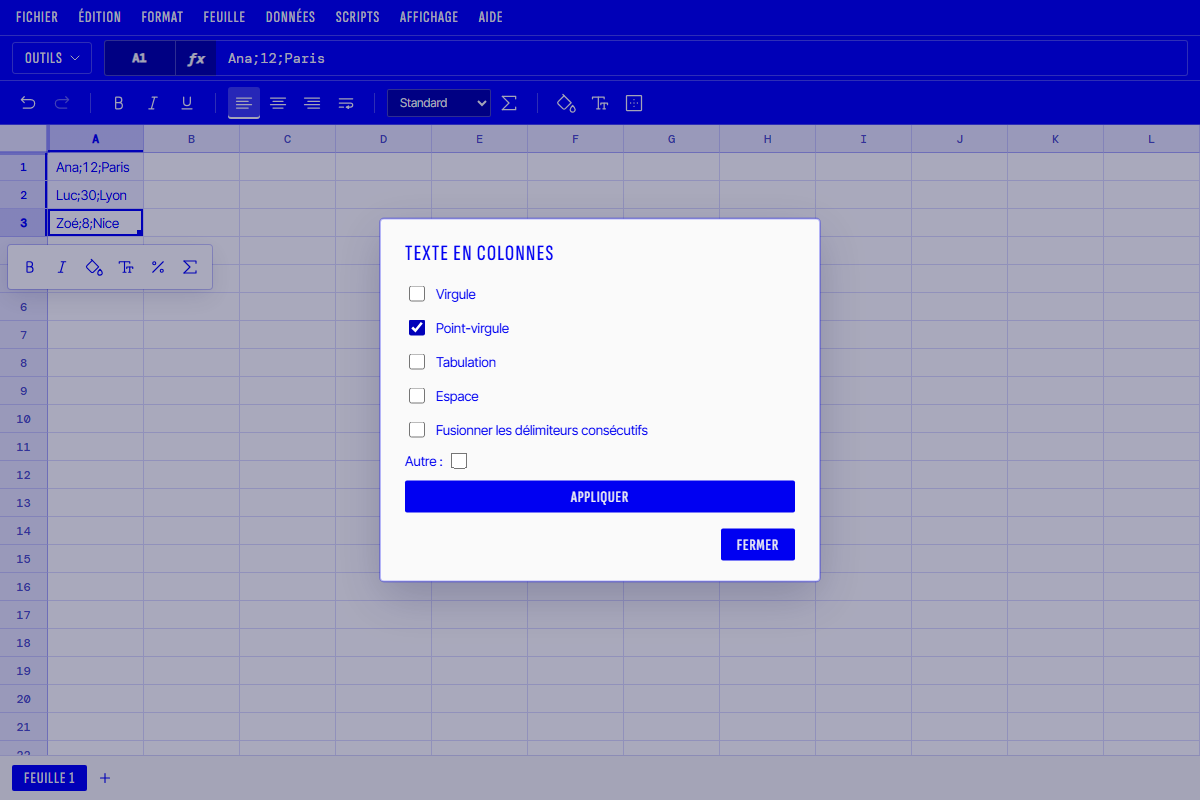
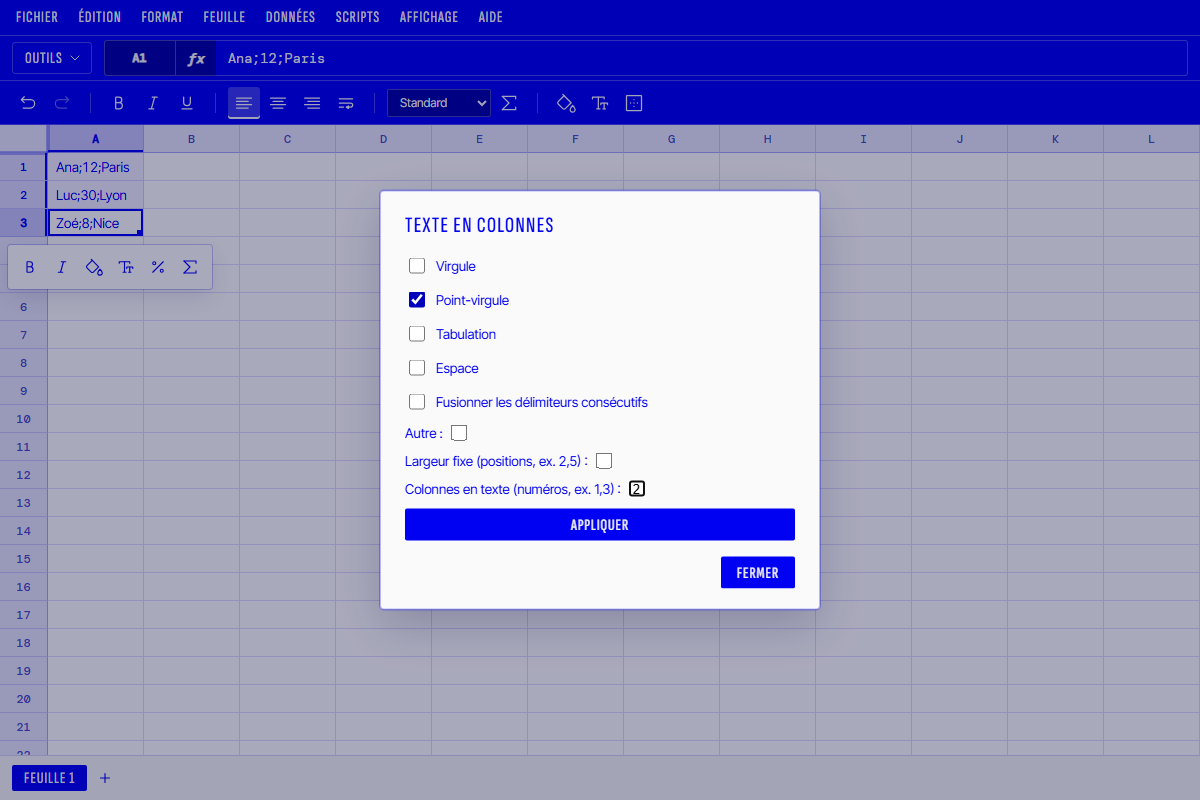
Boucle: implementation

Changed region(s): [[0.3083, 0.2188, 0.7092, 0.7812]]

diff --git a/src/ui/dialogs/textToCols.ts b/src/ui/dialogs/textToCols.ts
@@ -33,12 +33,20 @@ export function openTextToColumns(app: App): void {
   body.innerHTML = CHOICES.map(([n, l]) => `<label class="dk-dialog__check"><input type="checkbox" name="${n}"${n === "comma" ? " checked" : ""}> ${l}</label>`).join("") +
     '<label class="dk-dialog__check"><input type="checkbox" name="merge"> Fusionner les délimiteurs consécutifs</label>' +
     '<label class="dk-dialog__check">Autre : <input type="text" name="other" size="4" maxlength="8"></label>' +
+    '<label class="dk-dialog__check">Largeur fixe (positions, ex. 2,5) : <input type="text" name="widths" size="8"></label>' +
+    '<label class="dk-dialog__check">Colonnes en texte (numéros, ex. 1,3) : <input type="text" name="texts" size="8"></label>' +
     '<button type="button" class="dk-dialog__btn" data-action="apply">Appliquer</button>';
   const box = openDialog("text-to-columns", "Texte en colonnes", body);
   const on = (n: string): boolean => body.querySelector<HTMLInputElement>(`input[name="${n}"]`)!.checked;
   body.querySelector('[data-action="apply"]')!.addEventListener("click", () => {
     const other = body.querySelector<HTMLInputElement>('input[name="other"]')!.value;
-    applyTextToColumns(app, { delims: CHOICES.filter(([n]) => on(n)).map(([, , c]) => c), other, merge: on("merge") });
+    const nums = (n: string): number[] => (body.querySelector<HTMLInputElement>(`input[name="${n}"]`)!.value.match(/\d+/g) ?? []).map(Number);
+    const formats = [] as ("general" | "text")[];
+    for (const c of nums("texts")) formats[c - 1] = "text";
+    applyTextToColumns(app, {
+      delims: CHOICES.filter(([n]) => on(n)).map(([, , c]) => c), other, merge: on("merge"),
+      widths: nums("widths"), formats: Array.from(formats, (f) => f ?? "general"),
+    });
     box.querySelector<HTMLElement>('[data-action="close"]')!.click();
   });
 }

diff --git a/src/ui/statusbar/stats.ts b/src/ui/statusbar/stats.ts
@@ -1,0 +1,28 @@
+/** Pure selection statistics for the status bar (no DOM). */
+import type { Value } from "../../engine/types";
+
+/** Figures of a selection; numeric ones are absent when it holds no number. */
+export interface SelStats { count: number; numCount: number; sum?: number; avg?: number; min?: number; max?: number }
+
+/** Compute stats over cell values: non-empty cells are counted, only real numbers feed sum/avg/min/max. */
+export function selectionStats(values: Value[]): SelStats {
+  const nums = values.filter((v): v is number => typeof v === "number");
+  const count = values.filter((v) => v !== "").length;
+  if (!nums.length) return { count, numCount: 0 };
+  const sum = nums.reduce((a, b) => a + b, 0);
+  return { count, numCount: nums.length, sum, avg: sum / nums.length, min: Math.min(...nums), max: Math.max(...nums) };
+}
+
+const fmt = (n: number) => n.toLocaleString("fr-FR", { maximumFractionDigits: 10 });
+
+/** Labelled figures to display, in order; empty unless at least 2 cells are selected. */
+export function statItems(cells: number, values: Value[]): { label: string; value: string }[] {
+  if (cells < 2) return [];
+  const s = selectionStats(values);
+  const out: { label: string; value: string }[] = [];
+  if (s.numCount) out.push({ label: "Moyenne", value: fmt(s.avg!) });
+  out.push({ label: "Nb", value: fmt(s.count) });
+  if (s.numCount) out.push({ label: "Nb numérique", value: fmt(s.numCount) }, { label: "Min", value: fmt(s.min!) },
+    { label: "Max", value: fmt(s.max!) }, { label: "Somme", value: fmt(s.sum!) });
+  return out;
+}

diff --git a/src/ui/appGrid.ts b/src/ui/appGrid.ts
@@ -1,5 +1,5 @@
 /** Grid lifecycle of the app: (re)build, info sync, redraw after edits, tabs refresh. */
-import { getDisplay, getRaw, setCell } from "../engine/sheet";
+import { getDisplay, getRaw, getValue, setCell } from "../engine/sheet";
 import { createGrid } from "./grid/grid";
 import type { GridView } from "./grid/types";
 import { MAX_ROWS } from "./grid/virtual";
@@ -11,7 +11,7 @@ import { sheetEnv } from "../engine/cf/env";
 import { formatValue } from "./numfmt";
 import { fitColumns } from "./appFit";
 import { colsOfSelection } from "./grid/fit";
-import { firstKey, setTitle, type Ctx } from "./appState";
+import { firstKey, keysOf, setTitle, type Ctx } from "./appState";
 
 /** Per-sheet grid view state (column widths, filters): survives rebuilds, widths and freeze come from the entry (saved in files), filters are not saved; `viewOf(entry)` gets/creates it. */
 const views = new WeakMap<object, GridView>();
@@ -32,6 +32,8 @@ export function syncInfo(c: Ctx): void {
   const raw = getRaw(c.cur.sheet, key);
   c.fbar.setCell(key, raw);
   c.sidebar.setCellInfo({ ref: key, raw, display: getDisplay(c.cur.sheet, key), format: "Standard" });
+  const keys = keysOf(c.grid.getSelection());
+  c.status.update(keys.length, keys.length > 1 ? keys.map((k) => getValue(c.cur.sheet, k)) : []);
   const st = c.cur.styles[key] ?? {};
   c.toolbar.setState({ bold: !!st.bold, italic: !!st.italic, underline: !!st.underline, wrap: !!st.wrap, align: st.align ?? "left",
     format: st.format ?? "general", canUndo: c.cur.undo.length > 0, canRedo: c.cur.redo.length > 0 });

diff --git a/src/ui/statusbar/stats.test.ts b/src/ui/statusbar/stats.test.ts
@@ -1,0 +1,40 @@
+// @vitest-environment jsdom
+import { describe, it, expect } from "vitest";
+import { selectionStats, statItems } from "./stats";
+import { createStatusBar } from "./statusbar";
+
+describe("selectionStats", () => {
+  it("computes sum, avg, min, max, counts", () => {
+    const s = selectionStats([1, 2, "a", "", 6, true]);
+    expect(s).toEqual({ count: 5, numCount: 3, sum: 9, avg: 3, min: 1, max: 6 });
+  });
+  it("has no numeric stats without numbers", () => {
+    expect(selectionStats(["a", ""])).toEqual({ count: 1, numCount: 0 });
+  });
+});
+
+describe("statItems", () => {
+  it("is empty for fewer than 2 cells", () => {
+    expect(statItems(1, [5])).toEqual([]);
+  });
+  it("lists the six figures in order (fr-FR)", () => {
+    const l = statItems(3, [1, 2, 3.5]).map((i) => i.label);
+    expect(l).toEqual(["Moyenne", "Nb", "Nb numérique", "Min", "Max", "Somme"]);
+    expect(statItems(3, [1, 2, 3.5]).find((i) => i.label === "Somme")!.value).toBe("6,5");
+  });
+  it("only shows Nb when no number", () => {
+    expect(statItems(2, ["a", "b"]).map((i) => i.label)).toEqual(["Nb"]);
+  });
+});
+
+describe("createStatusBar", () => {
+  it("renders items and hides when empty", () => {
+    const sb = createStatusBar();
+    sb.update(2, [4, 6]);
+    expect(sb.el.hidden).toBe(false);
+    expect(sb.el.textContent).toContain("Somme");
+    expect(sb.el.querySelector('[data-stat="Somme"]')!.textContent).toContain("10");
+    sb.update(1, [4]);
+    expect(sb.el.hidden).toBe(true);
+  });
+});

diff --git a/src/ui/app.ts b/src/ui/app.ts
@@ -21,6 +21,8 @@ import { installMacros } from "./macros/wire";
 import { watchMacros } from "./appMacros";
 import { relink, type Ctx } from "./appState";
 import { createDocStore } from "../doc/store";
+import "./statusbar/statusbar.css";
+import { createStatusBar } from "./statusbar/statusbar";
 import "../doc/doc.css";
 import "../doc/blocks.css";
 import type { App } from "./appTypes";
@@ -30,7 +32,7 @@ export type { App, Hooks } from "./appTypes";
 const LAYOUT =
   '<div class="dk-app dk-app--minimal"><div class="dk-app__top"><div class="dk-app__menubar"></div><div class="dk-app__bar"></div><div class="dk-app__tools"></div></div>' +
   '<div class="dk-app__main"><div class="dk-app__grid"></div><div class="dk-app__doc" hidden></div><div class="dk-app__macro" hidden></div></div>' +
-  '<div class="dk-app__tabs"></div></div>';
+  '<div class="dk-app__status-slot"></div><div class="dk-app__tabs"></div></div>';
 
 /** Disposer of the previous mount (palette hotkey, menus click listener), run before a remount. */
 let disposePrev: (() => void) | undefined;
@@ -51,6 +53,8 @@ export function mount(root: HTMLElement): App {
     entries: [first], cur: first, recents: [], coalescing: false,
   } as unknown as Ctx;
   relink(c);
+  c.status = createStatusBar();
+  root.querySelector(".dk-app__status-slot")!.replaceWith(c.status.el);
   c.app = createApi(c);
   createWidgets(c, root);
   watchMacros(c);

diff --git a/e2e/feat-selstats.spec.ts b/e2e/feat-selstats.spec.ts
@@ -1,0 +1,26 @@
+/** E2E: status bar shows selection statistics for 2+ cells; screenshots light + dark. */
+import { test, expect } from "@playwright/test";
+import { openApp, selectCell } from "./helpers";
+import { fillColumn } from "./helpers-new";
+
+const DIR = "docs/screenshots/statistiques-de-selection-dans-la-barre-d-etat";
+
+for (const [theme, label] of [["light", "clair"], ["dark", "sombre"]] as const) {
+  test(`selection statistics (${label})`, async ({ page }) => {
+    await page.setViewportSize({ width: 1200, height: 800 });
+    await openApp(page);
+    await page.evaluate((t) => { document.documentElement.dataset.theme = t; }, theme);
+    await fillColumn(page, "A", ["10", "20", "x", "30"]);
+    await selectCell(page, "A1");
+    await expect(page.locator(".dk-status")).toBeHidden();
+    await page.locator('.dkg-cell[data-key="A1"]').hover();
+    await page.mouse.down();
+    await page.locator('.dkg-cell[data-key="A4"]').hover();
+    await page.mouse.up();
+    const bar = page.locator(".dk-status");
+    await expect(bar.locator('[data-stat="Somme"]')).toContainText("60");
+    await expect(bar.locator('[data-stat="Moyenne"]')).toContainText("20");
+    await expect(bar.locator('[data-stat="Nb"]')).toContainText("4");
+    await page.screenshot({ path: `${DIR}/statistiques-${label}.png` });
+  });
+}

diff --git a/src/engine/textsplit.ts b/src/engine/textsplit.ts
@@ -13,10 +13,18 @@ export interface SplitOpts {
   other?: string;
   /** Traite les délimiteurs consécutifs comme un seul. */
   merge?: boolean;
+  /** Largeur fixe : positions de coupe croissantes (ex. [2, 4]); remplace les délimiteurs si non vide. */
+  widths?: number[];
+  /** Format par colonne produite (absent = général); "text" force le texte (préfixe `'`). */
+  formats?: ("general" | "text")[];
 }
 
 /** Découpe une ligne en parties (au moins une). */
 export function splitLine(text: string, o: SplitOpts): string[] {
+  if (o.widths?.length) {
+    const cuts = [0, ...o.widths, text.length];
+    return cuts.slice(0, -1).map((c, i) => text.slice(c, cuts[i + 1]));
+  }
   const seps = [...o.delims, ...(o.other ? [o.other] : [])].filter((s) => s !== "");
   if (!seps.length) return [text];
   const out: string[] = [];
@@ -46,7 +54,7 @@ export function splitColumn(src: Record<string, string>, o: SplitOpts): { cells:
     if (!p || raw === "") continue;
     const parts = splitLine(raw, o);
     cols = Math.max(cols, parts.length);
-    parts.forEach((v, i) => { cells[colToLetters(p.col + i) + p.row] = v; });
+    parts.forEach((v, i) => { cells[colToLetters(p.col + i) + p.row] = o.formats?.[i] === "text" && v !== "" ? "'" + v : v; });
   }
   return { cells, cols };
 }

diff --git a/src/ui/statusbar/statusbar.ts b/src/ui/statusbar/statusbar.ts
@@ -1,0 +1,26 @@
+/** Status bar: shows Moyenne / Nb / Nb numérique / Min / Max / Somme of a multi-cell selection. */
+import type { Value } from "../../engine/types";
+import { statItems } from "./stats";
+
+export interface StatusBar { el: HTMLElement; update(cells: number, values: Value[]): void }
+
+/** Create the bar (hidden until `update` gets a selection of 2+ cells). */
+export function createStatusBar(): StatusBar {
+  const el = document.createElement("div");
+  el.className = "dk-status";
+  el.setAttribute("role", "status");
+  el.hidden = true;
+  return {
+    el,
+    update(cells, values) {
+      const items = statItems(cells, values);
+      el.hidden = !items.length;
+      el.replaceChildren(...items.map((i) => {
+        const s = document.createElement("span");
+        s.dataset.stat = i.label;
+        s.textContent = `${i.label} : ${i.value}`;
+        return s;
+      }));
+    },
+  };
+}

diff --git a/src/ui/appState.ts b/src/ui/appState.ts
@@ -3,6 +3,7 @@ import { parseKey, rangeKeys } from "./grid/keys";
 import type { Grid } from "./grid/grid";
 import type { Toolbar, FormulaBar } from "./toolbar";
 import type { SheetTabs } from "./tabs/tabs";
+import type { StatusBar } from "./statusbar/statusbar";
 import type { Sidebar, RecentFile } from "./sidebar/sidebar";
 import { linkBook, type Entry } from "./model";
 import type { App } from "./appTypes";
@@ -50,6 +51,8 @@ export interface Ctx {
   grid: Grid;
   toolbar: Toolbar;
   fbar: FormulaBar;
+  /** Selection statistics bar. */
+  status: StatusBar;
   sidebar: Sidebar;
   tabs: SheetTabs;
   app: App;

diff --git a/src/engine/textsplit.test.ts b/src/engine/textsplit.test.ts
@@ -29,3 +29,13 @@ describe("splitColumn", () => {
     expect(splitColumn({ Z1: "a,b" }, { delims: [","] }).cells).toEqual({ Z1: "a", AA1: "b" });
   });
 });
+
+describe("largeur fixe et format par colonne", () => {
+  it("largeur fixe : positions de coupe", () => {
+    expect(splitLine("abcdef", { delims: [], widths: [2, 4] })).toEqual(["ab", "cd", "ef"]);
+  });
+  it("format texte : apostrophe en préfixe (force le texte)", () => {
+    const r = splitColumn({ A1: "007,5" }, { delims: [","], formats: ["text", "general"] });
+    expect(r.cells).toEqual({ A1: "'007", B1: "5" });
+  });
+});

diff --git a/e2e/feat-texte-colonnes.spec.ts b/e2e/feat-texte-colonnes.spec.ts
@@ -16,6 +16,7 @@ for (const theme of ["clair", "sombre"] as const) {
     const d = page.locator('.dk-dialog[data-id="text-to-columns"]');
     await d.locator('input[name="comma"]').uncheck();
     await d.locator('input[name="semi"]').check();
+    await d.locator('input[name="texts"]').fill("2");
     await page.screenshot({ path: `docs/screenshots/texte-en-colonnes/dialogue-${theme}.png` });
     await d.locator('[data-action="apply"]').click();
     expect(await cellText(page, "B2")).toBe("30");

diff --git a/src/ui/statusbar/statusbar.css b/src/ui/statusbar/statusbar.css
@@ -1,0 +1,4 @@
+/* Selection statistics bar, between the grid and the sheet tabs. */
+.dk-status { flex: none; display: flex; gap: 16px; justify-content: flex-end; padding: 2px 12px;
+  font: var(--fs-sm) var(--font-mono); color: var(--c-text); background: var(--c-bg); border-top: 1px solid var(--c-line-strong); }
+.dk-status[hidden] { display: none; }
